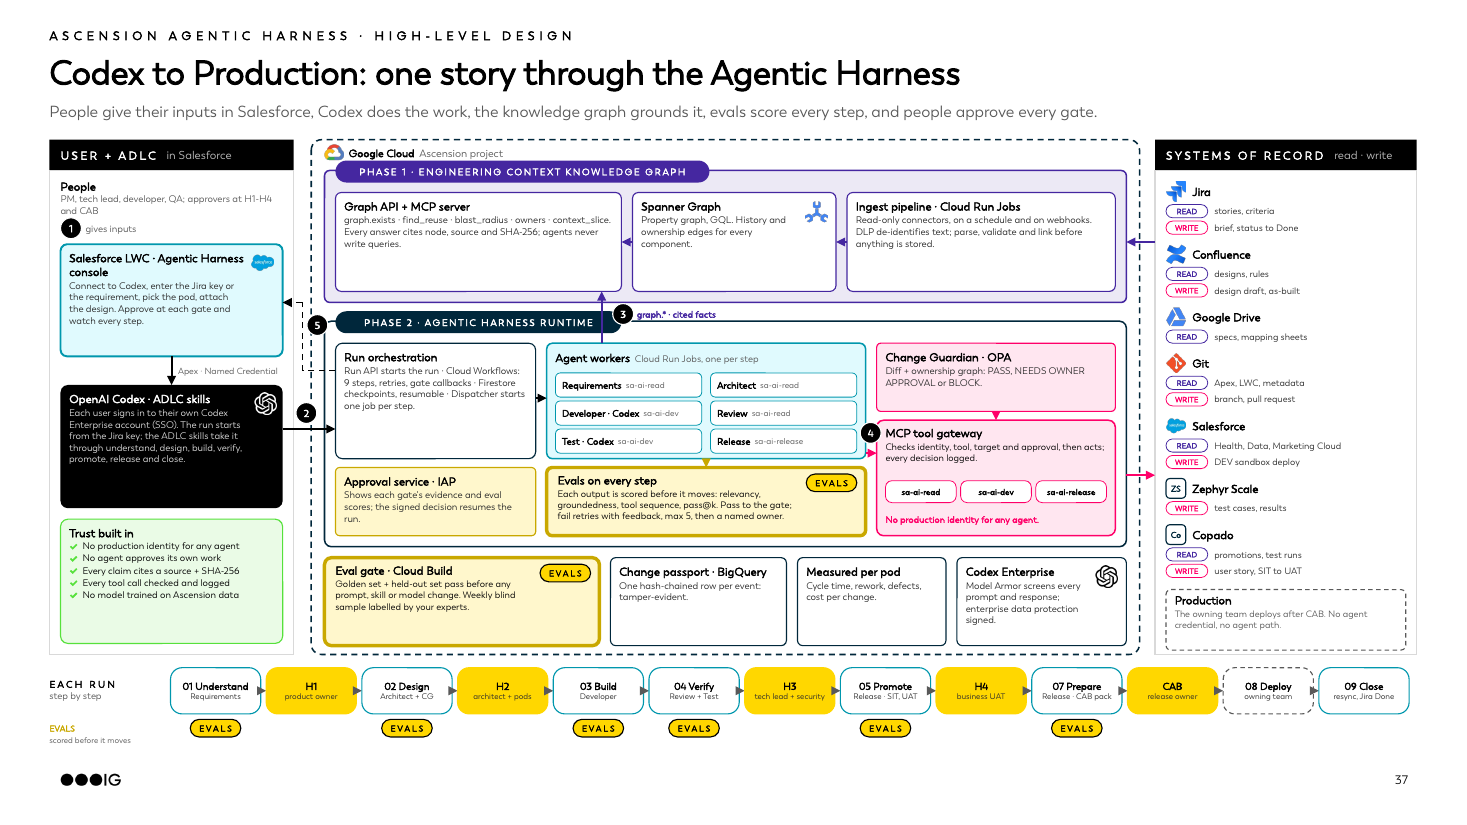
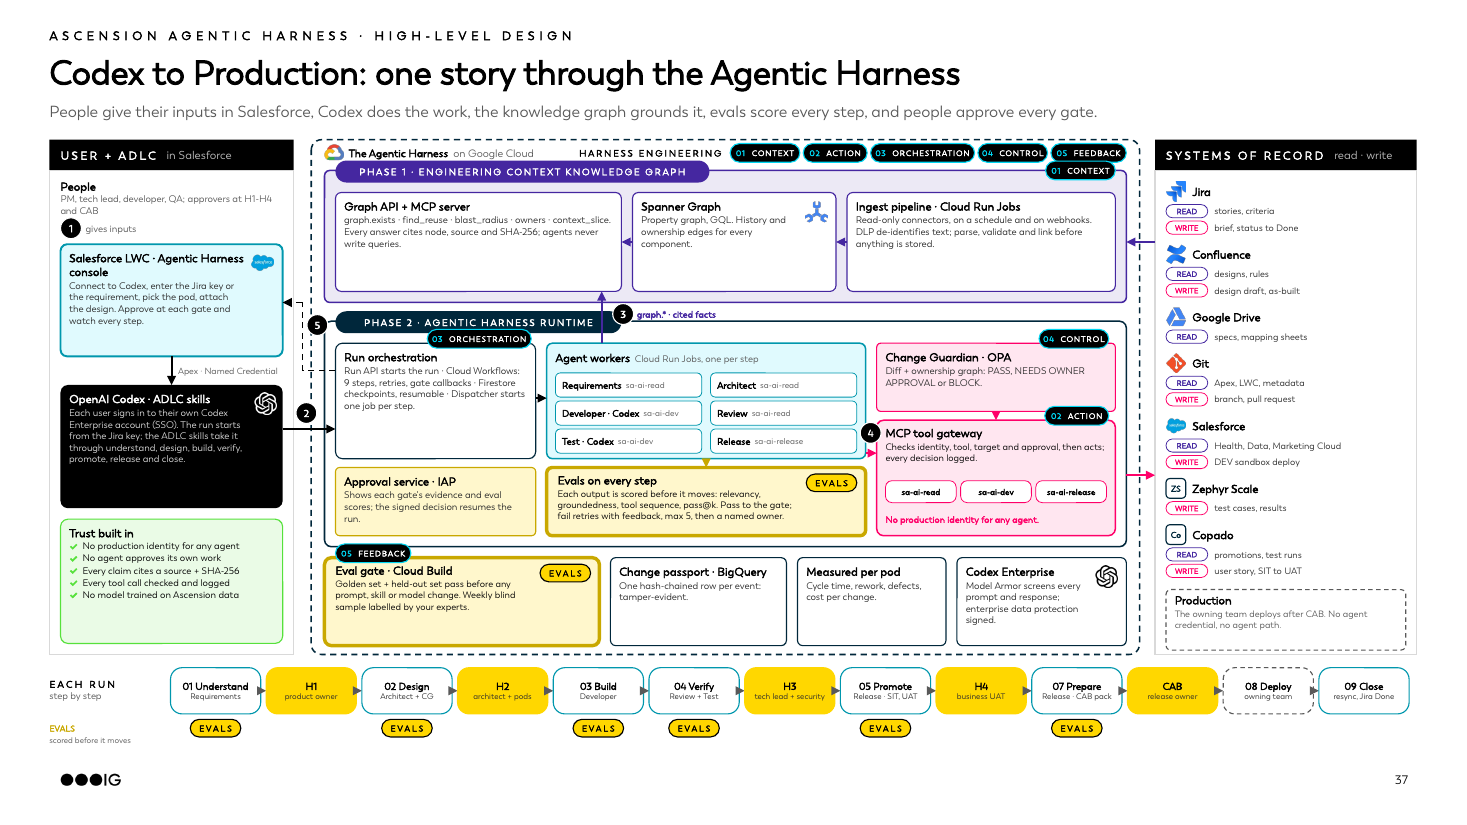
High-level design preview: mark the five harness-engineering pillars where each lives
Claude-Session: https://claude.ai/code/session_01Hf94kqMzSofkkrQm7kpNba

diff --git a/poc/deck/review_slides.py b/poc/deck/review_slides.py
@@ -47,6 +47,21 @@ def eval_tag(cv, x, y, w=0.46):
             track=120)
 
 
+PILLARS = ["Context", "Action", "Orchestration", "Control", "Feedback"]
+
+
+def pillar_tag(cv, x, y, n, right=False):
+    """Harness-engineering pillar marker, as on the harness engineering slide: black, cyan number."""
+    name = PILLARS[n - 1].upper()
+    w = 0.27 + 0.052 * len(name)
+    if right:
+        x -= w
+    cv.rect(x, y, w, 0.17, BLACK, CYAN, 0.75, R, 0.5)
+    cv.text(x, y, w, 0.17, [[("%02d  " % n, {"color": CYAN}), (name, {})]], size=5.2, bold=True, color=WHITE,
+            align=PP_ALIGN.CENTER, anchor=MSO_ANCHOR.MIDDLE, track=60)
+    return w
+
+
 def badge(cv, x, y, n):
     cv.rect(x, y, 0.19, 0.19, BLACK, WHITE, 0.75, MSO_SHAPE.OVAL)
     cv.text(x, y, 0.19, 0.19, str(n), size=6.5, bold=True, color=WHITE, align=PP_ALIGN.CENTER,
@@ -70,6 +85,14 @@ WHERE THE EVALS RUN (the yellow boxes)
 - On every step: each agent's output is scored before it moves on (answer relevancy, groundedness, tool sequence, pass@k). Pass goes to the next gate; a fail retries with the feedback, at most five times, then goes to a named owner.
 - Before any change to the harness: the eval gate in Cloud Build runs the golden set and a held-out set before any prompt, skill or model change; a weekly blind sample is labelled by Ascension's experts.
 - At each gate, approvers see the eval scores with the evidence.
+
+WHERE HARNESS ENGINEERING SHOWS (the black numbered tags, same five pillars as the harness engineering slide)
+- 01 Context: the knowledge graph. Agents get cited facts and a bounded slice, never a raw org dump.
+- 02 Action: the MCP tool gateway. Agents act only through approved tools, with one of three identities.
+- 03 Orchestration: the run loop. Nine durable steps, checkpoints, retries, gates.
+- 04 Control: the Change Guardian, Model Armor and the human gates. Rules the agents cannot break.
+- 05 Feedback: the eval gate, the change passport and the per-pod measures. How the harness gets better.
+Codex is the engine; everything inside the dashed frame is the harness we build around it.
 
 BOTTOM ROW
 The nine steps of every run, with the four human gates and CAB. The yellow EVALS marks show the steps scored before they move."""
@@ -122,10 +145,16 @@ def hld_slide(prs, layout):
     gx, gw = 2.83, 7.53
     cv.rect(gx, top, gw, bot - top, None, NAVY, 1.0, R, 0.02, dash="dash")
     logo(cv, "googlecloud", gx + 0.12, top + 0.03, 0.17)
-    cv.text(gx + 0.34, top + 0.02, 3.0, 0.2, [[("Google Cloud", {"bold": True}), ("  Ascension project",
-                                                                                 {"color": MUTE})]],
+    cv.text(gx + 0.34, top + 0.02, 3.0, 0.2, [[("The Agentic Harness", {"bold": True}),
+                                              ("  on Google Cloud", {"color": MUTE})]],
             size=7, anchor=MSO_ANCHOR.MIDDLE)
     ix, iw = gx + 0.12, gw - 0.24
+    # key: the five harness-engineering pillars, each tagged where it lives
+    kx = gx + gw - 0.12
+    for n in range(5, 0, -1):
+        kx -= pillar_tag(cv, kx, top + 0.035, n, right=True) + 0.03
+    cv.text(kx - 1.75, top + 0.02, 1.7, 0.2, "HARNESS ENGINEERING", size=6, bold=True, track=120,
+            align=PP_ALIGN.RIGHT, anchor=MSO_ANCHOR.MIDDLE)
 
     # phase 1: knowledge graph
     p1y, p1h = 1.55, 1.2
@@ -145,6 +174,7 @@ def hld_slide(prs, layout):
          "link before anything is stored.", line=VIOLET)
     cv.arrow(ix + 4.75, by + bh / 2, ix + 4.65, by + bh / 2, VIOLET, 1.25)
     cv.arrow(ix + 2.8, by + bh / 2, ix + 2.7, by + bh / 2, VIOLET, 1.25)
+    pillar_tag(cv, ix + iw - 0.1, p1y - 0.085, 1, right=True)
 
     # phase 2: runtime
     p2y, p2h = 2.92, 2.05
@@ -199,6 +229,9 @@ def hld_slide(prs, layout):
                 align=PP_ALIGN.CENTER, anchor=MSO_ANCHOR.MIDDLE)
     cv.text(gx2 + 0.08, ry + 1.5, gw2 - 0.16, 0.2, "No production identity for any agent.", size=6, bold=True,
             color=MAGENTA, anchor=MSO_ANCHOR.MIDDLE)
+    pillar_tag(cv, ix + 1.88, ry - 0.125, 3, right=True)
+    pillar_tag(cv, gx2 + gw2 - 0.06, ry - 0.125, 4, right=True)
+    pillar_tag(cv, gx2 + gw2 - 0.06, ry + 0.7 - 0.125, 2, right=True)
     # flow arrows inside phase 2
     cv.arrow(ix + 1.92, ry + 0.5, ax, ry + 0.5, BLACK, 1.25)
     cv.arrow(ax + aw, ry + 1.0, gx2, ry + 1.0, MAGENTA, 1.5)
@@ -218,6 +251,7 @@ def hld_slide(prs, layout):
              [("Golden set + held-out set pass before any prompt, skill or model change. Weekly blind sample "
                "labelled by your experts.", {})]], size=6.1, after=1)
     eval_tag(cv, ix + 2.5 - 0.54, uy + 0.06)
+    pillar_tag(cv, ix + 0.1, uy - 0.125, 5)
     card(cv, ix + 2.6, uy, 1.6, uh, "Change passport · BigQuery", "One hash-chained row per event: "
                                                                   "tamper-evident.")
     card(cv, ix + 4.3, uy, 1.35, uh, "Measured per pod", "Cycle time, rework, defects, cost per change.")
